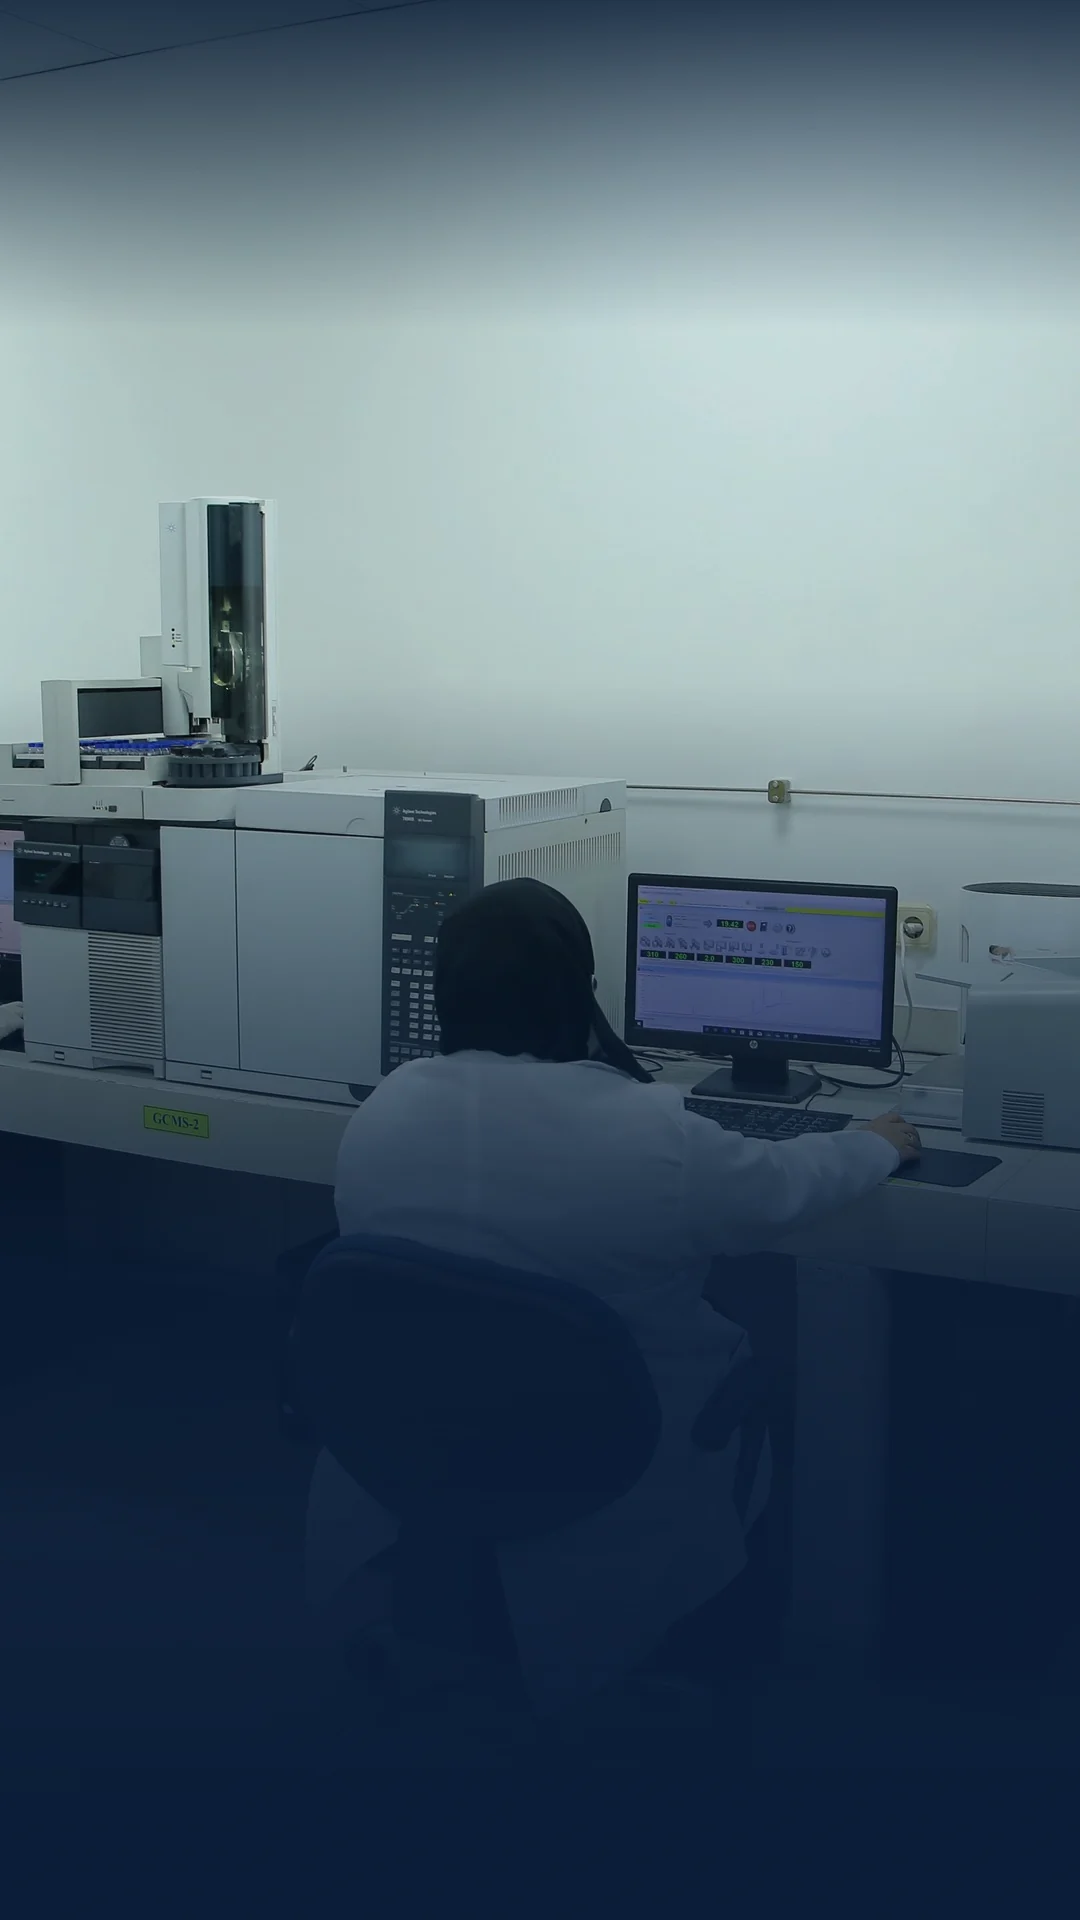
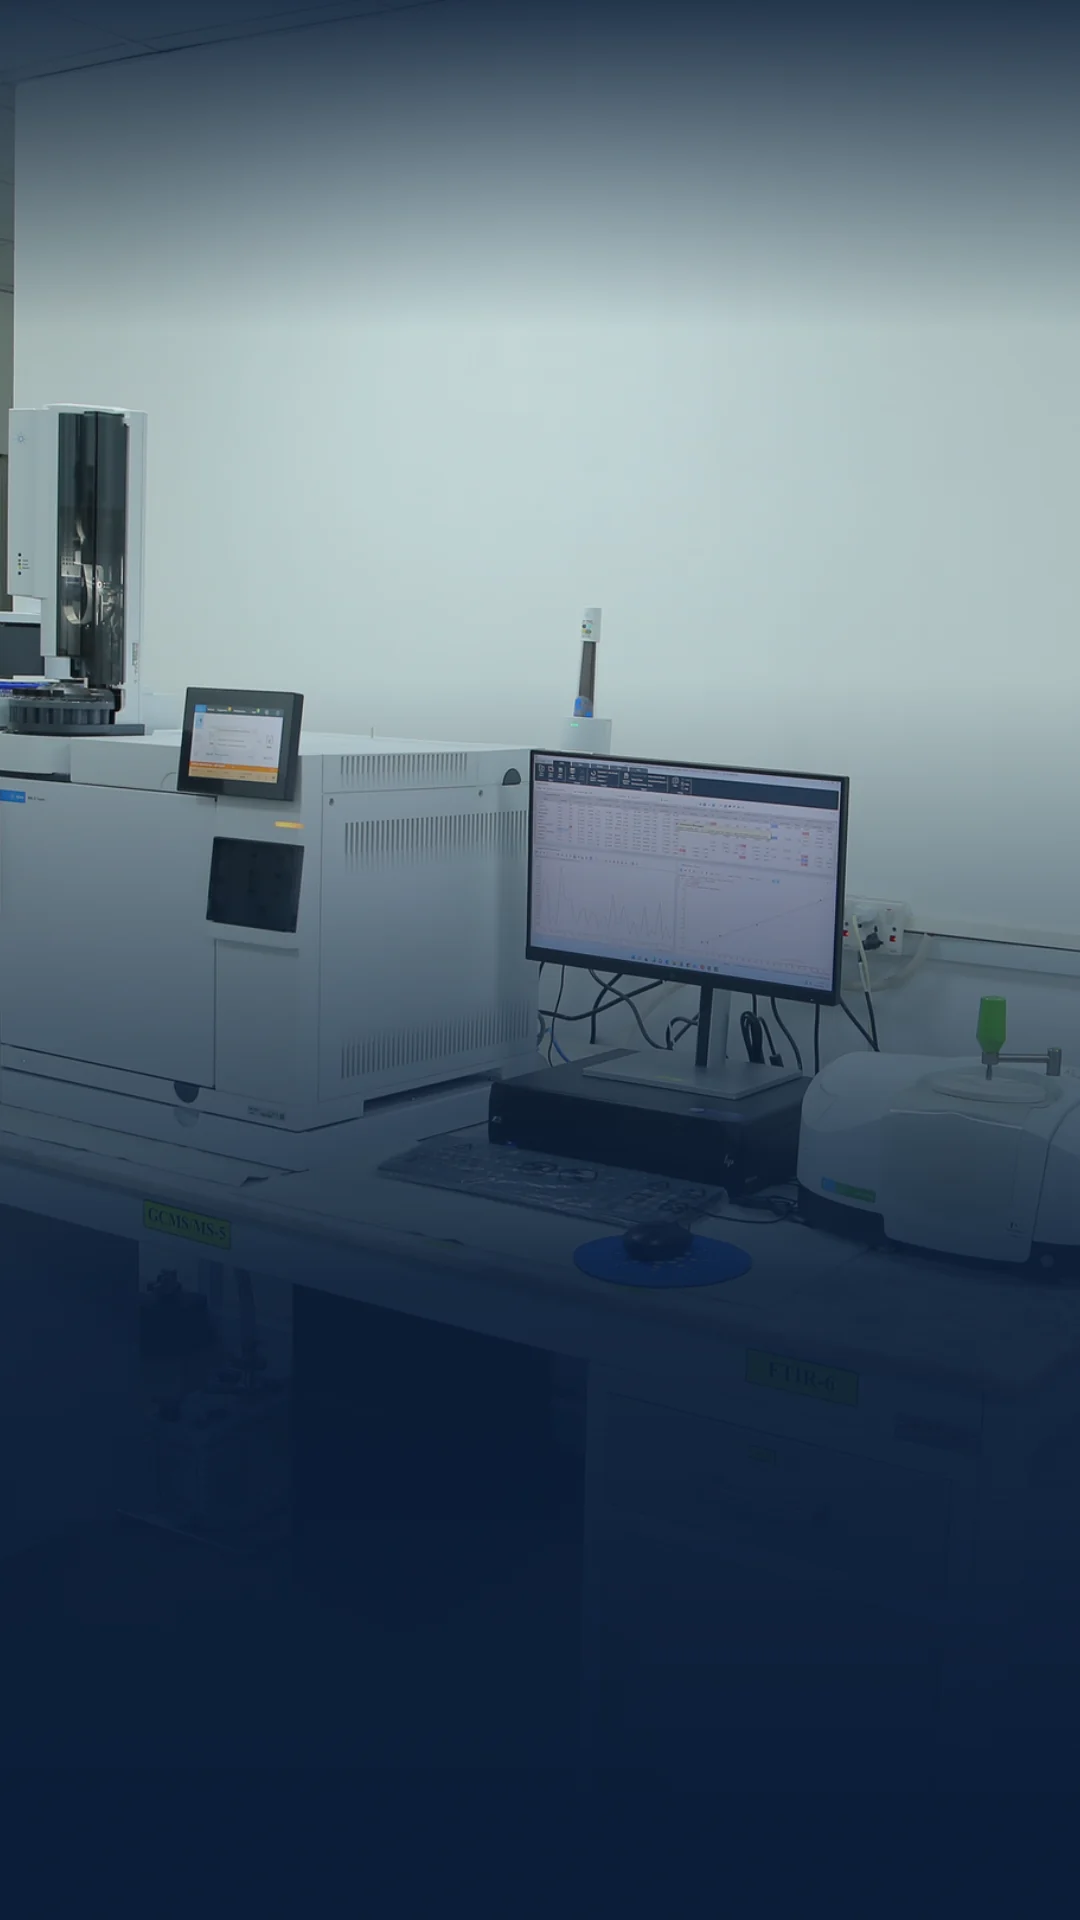
v2.8.2: lobby slide 5 uses a real lab photo with no people (old photo broke the men-only rule)

Changed region(s): [[0.0, 0.0625, 1.0, 0.6562], [0.825, 0.125, 0.9472, 0.1875]]

diff --git a/sw.js b/sw.js
@@ -3,7 +3,7 @@
 // so copying new slides to the server shows up on the next load and the screen keeps playing if the network drops.
 // Registered as sw.js?list=name for another edition (index.html), which then caches that playlist in its own cache.
 var LIST = (self.location.search.match(/list=([\w-]+)/) || [0, "main"])[1];
-var CACHE = "tti-screen" + (LIST == "main" ? "" : "-" + LIST);   // v2.8.1, 2026-11-10: cosmetics s03 real photo (AI hand fault); v2.8, 2026-11-10: real shoot photos on 12 own-premises slides, lobby campus remade; v2.7, 2026-11-06: Studio Photo images on 148 slides; v2.6, 2026-11-05: + Cosmetics, DPP & ESG, Microbiology, Citrus decks; v2.5, 2026-11-02: full-content edition (?list=full) (any byte change here re-caches every slide)
+var CACHE = "tti-screen" + (LIST == "main" ? "" : "-" + LIST);   // v2.8.2, 2026-11-10: lobby s05 real no-people photo (men-only rule); v2.8.1, 2026-11-10: cosmetics s03 real photo (AI hand fault); v2.8, 2026-11-10: real shoot photos on 12 own-premises slides, lobby campus remade; v2.7, 2026-11-06: Studio Photo images on 148 slides; v2.6, 2026-11-05: + Cosmetics, DPP & ESG, Microbiology, Citrus decks; v2.5, 2026-11-02: full-content edition (?list=full) (any byte change here re-caches every slide)
 self.addEventListener("install", function (e) {
   e.waitUntil(caches.open(CACHE).then(function (c) {
     return fetch("playlists/" + LIST + ".js", { cache: "no-store" }).then(function (r) { return r.text(); }).then(function (js) {
